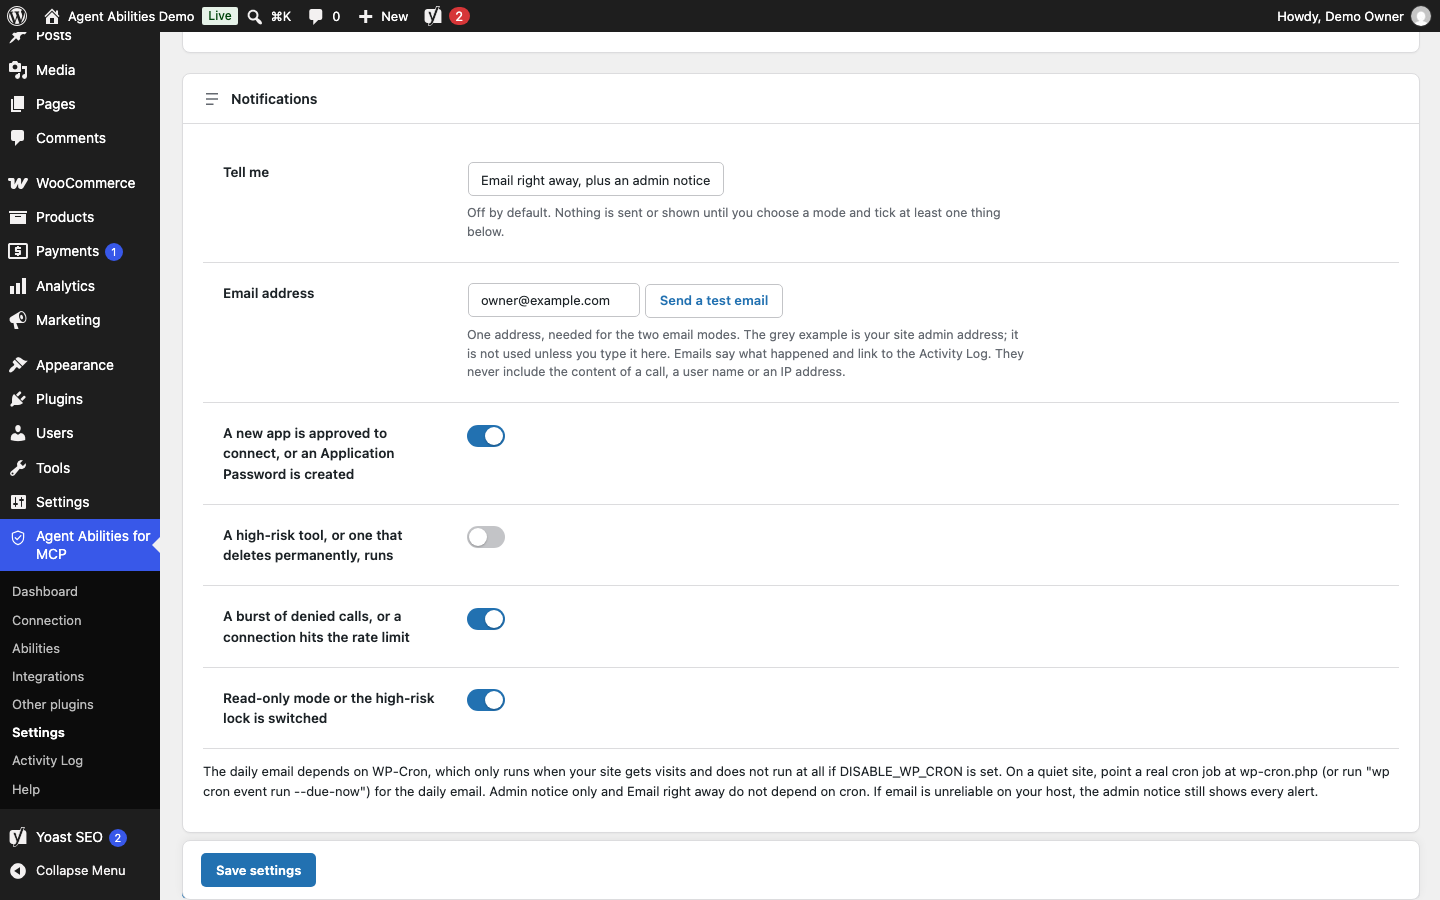
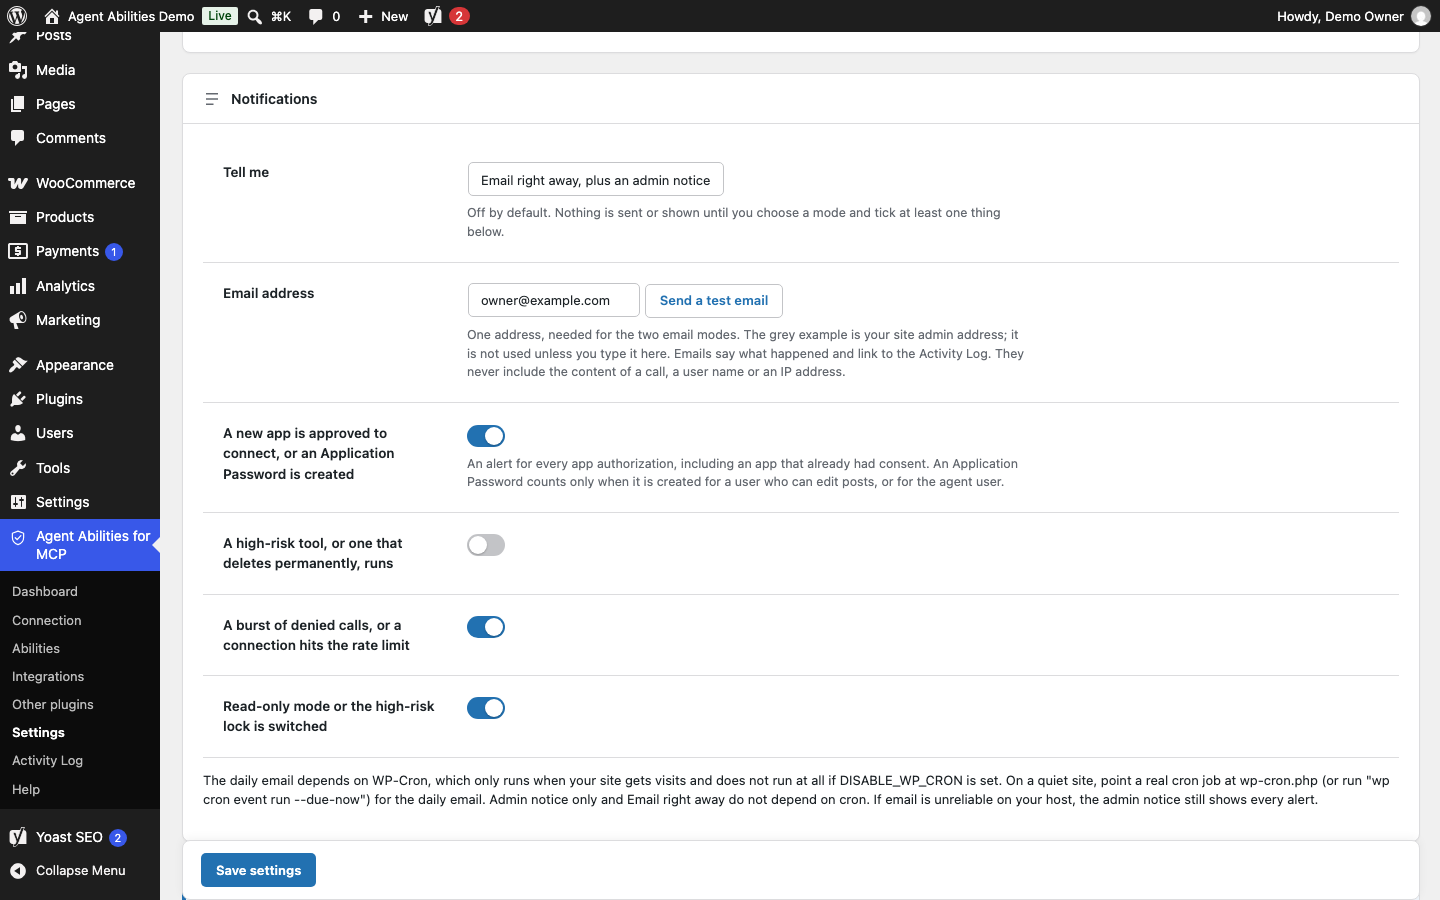
Retake screenshot 14 to show the app trigger help line

Changed region(s): [[0.125, 0.5911, 0.9688, 0.9022], [0.3125, 0.4978, 0.7188, 0.6222], [0.3125, 0.6533, 0.3438, 0.7156]]

diff --git a/bin/screenshots/README.md b/bin/screenshots/README.md
@@ -50,4 +50,4 @@ PNG, lowercase `screenshot-N.png`, 1440 x 900 at device scale factor 1, under 10
 
 Images 1 to 13 (the 1.8.0 set, taken 2026-10-15; 9 and 10 were retaken for 1.9.0, see below): the smoke gate's `--shots` site reached from the host over the container IP, Playwright 1.63.0, seeded run. Screenshot 1 used the `?aafm_shot=wizard` switch, 3 and 4 used `?aafm_shot=readonly`.
 
-For 1.9.0, images 9 and 10 were retaken and image 14 was added, all committed on 2026-10-16 and shot with `capture.mjs`. The routes are image 9 `tab=activity` (waits for the log table rows), image 10 `tab=dashboard`, and image 14 `tab=settings` scrolled to the Notifications card (`#aafm-notify-mode`). The other images are still the 1.8.0 captures.
+For 1.9.0, images 9 and 10 were retaken and image 14 was added, all committed on 2026-10-16 and shot with `capture.mjs`. The routes are image 9 `tab=activity` (waits for the log table rows), image 10 `tab=dashboard`, and image 14 `tab=settings` scrolled to the Notifications card (`#aafm-notify-mode`). Image 14 was retaken on 2026-10-16 after a help line was added under the app trigger row; images 9 and 10 were re-shot the same day on the current code and matched what is committed, so they were left as they are. The other images are still the 1.8.0 captures.
